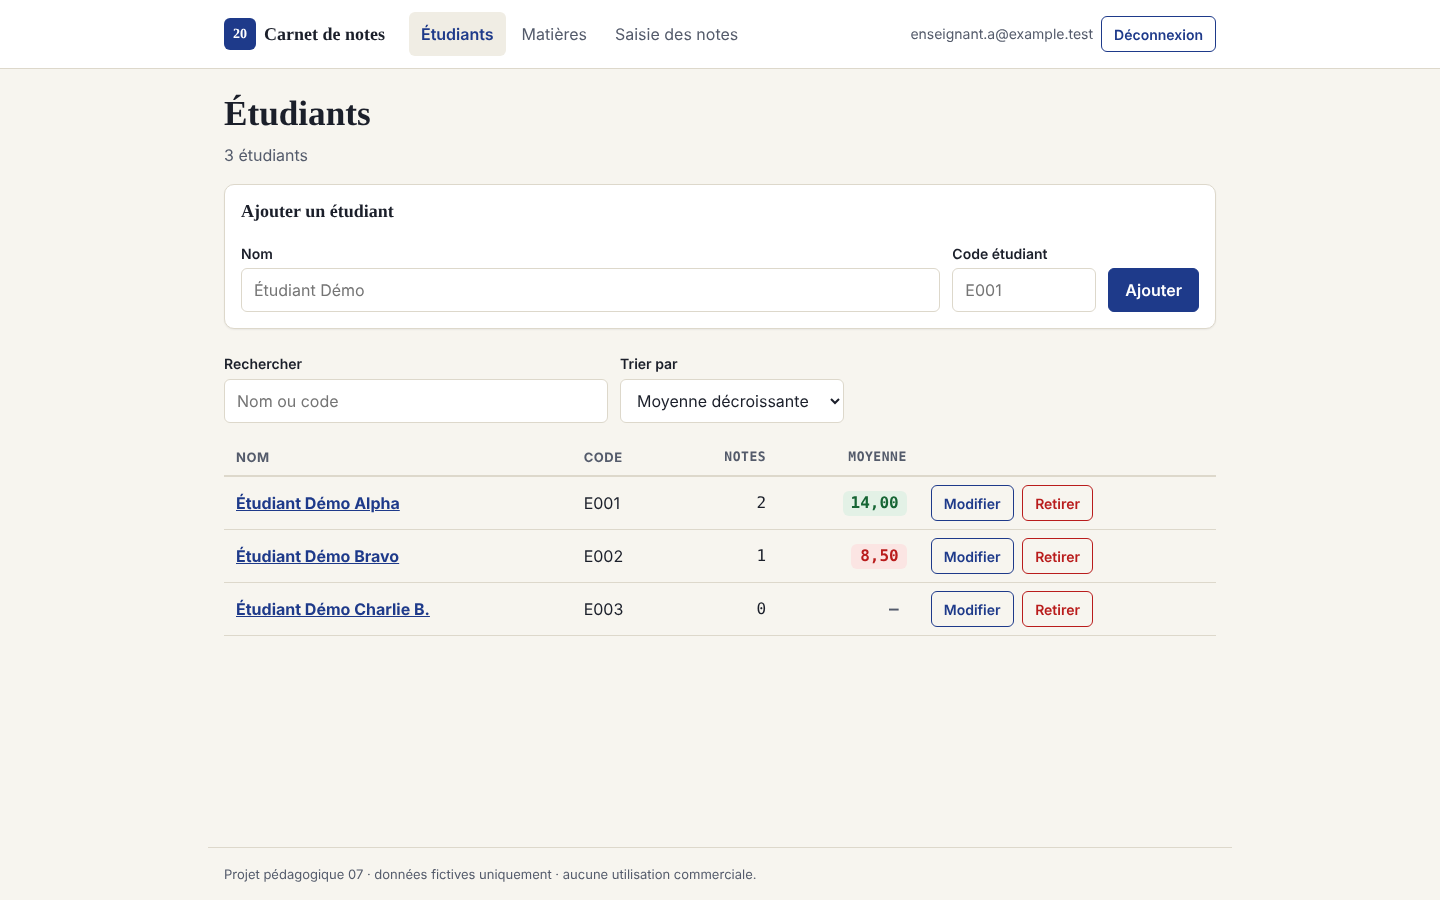
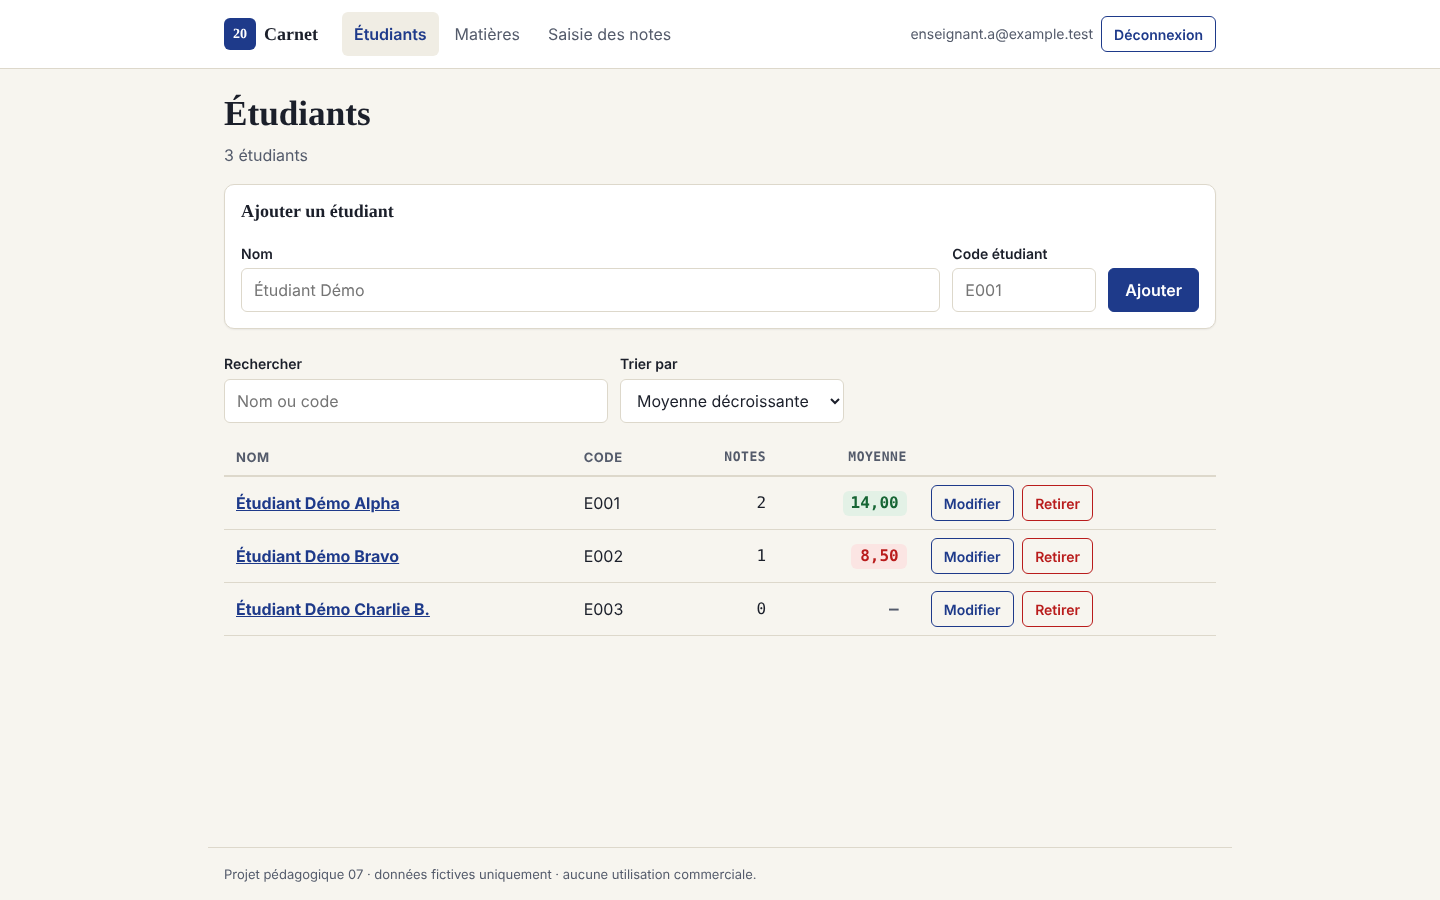
Nom affiché : Carnet
Claude-Session: https://claude.ai/code/session_016WEVT6vzKsmzH7W7hoEXbU

Changed region(s): [[0.2188, 0.0, 0.5, 0.0622]]

diff --git a/app/index.html b/app/index.html
@@ -3,7 +3,7 @@
 <head>
   <meta charset="utf-8">
   <meta name="viewport" content="width=device-width, initial-scale=1">
-  <title>Carnet de notes — gestion des notes des étudiants</title>
+  <title>Carnet — gestion des notes des étudiants</title>
   <meta name="description" content="Application de démonstration : étudiants, matières, notes et moyennes pondérées, avec comptes enseignants isolés.">
   <meta name="robots" content="noindex">
   <meta name="color-scheme" content="light dark">
@@ -17,9 +17,9 @@
 
   <header class="topbar">
     <div class="topbar__inner">
-      <a class="brand" href="#/etudiants" aria-label="Carnet de notes, accueil">
+      <a class="brand" href="#/etudiants" aria-label="Carnet, accueil">
         <span class="brand__mark" aria-hidden="true">20</span>
-        <span class="brand__name">Carnet de notes</span>
+        <span class="brand__name">Carnet</span>
       </a>
       <nav class="nav" id="nav" aria-label="Navigation principale" hidden>
         <a href="#/etudiants" data-route="etudiants">Étudiants</a>

diff --git a/app/js/app.js b/app/js/app.js
@@ -18,7 +18,7 @@ const esc = (s) => String(s ?? "").replace(/[&<>"']/g, (c) => ({ "&": "&amp;", "
 
 function render(html, title) {
   view.innerHTML = html;
-  document.title = `${title} — Carnet de notes`;
+  document.title = `${title} — Carnet`;
 }
 
 function loading(label = "Chargement…") {

diff --git a/README.md b/README.md
@@ -1,4 +1,4 @@
-# Carnet de notes — gestion des notes des étudiants
+# Carnet — gestion des notes des étudiants
 
 Projet 07 du parcours développeur junior. Un enseignant (fictif) enregistre ses étudiants, ses matières et leurs notes, puis consulte des moyennes pondérées fiables. Chaque enseignant n'accède qu'à ses propres données grâce à Supabase Auth et au Row Level Security (RLS).
 
